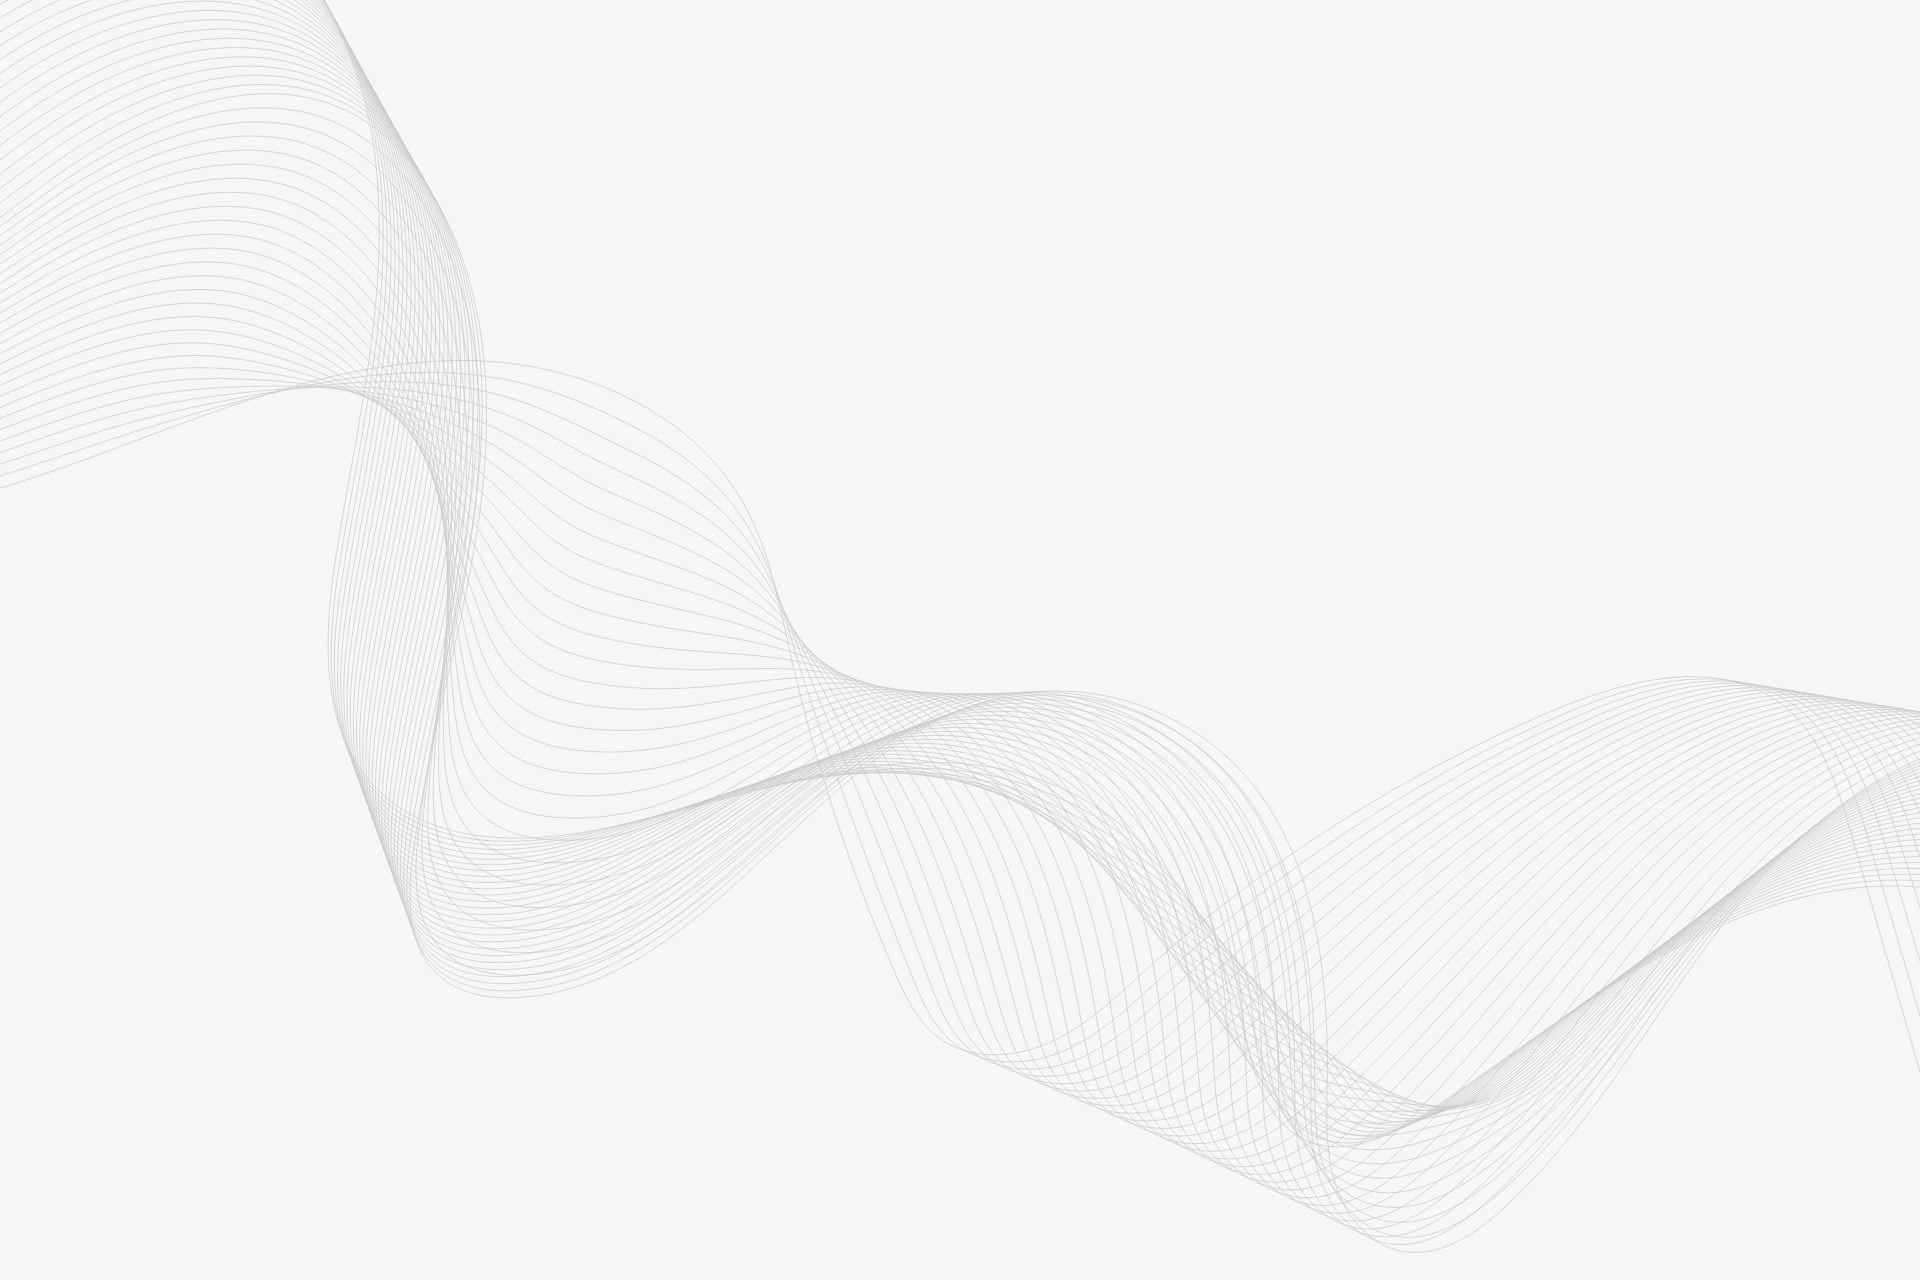
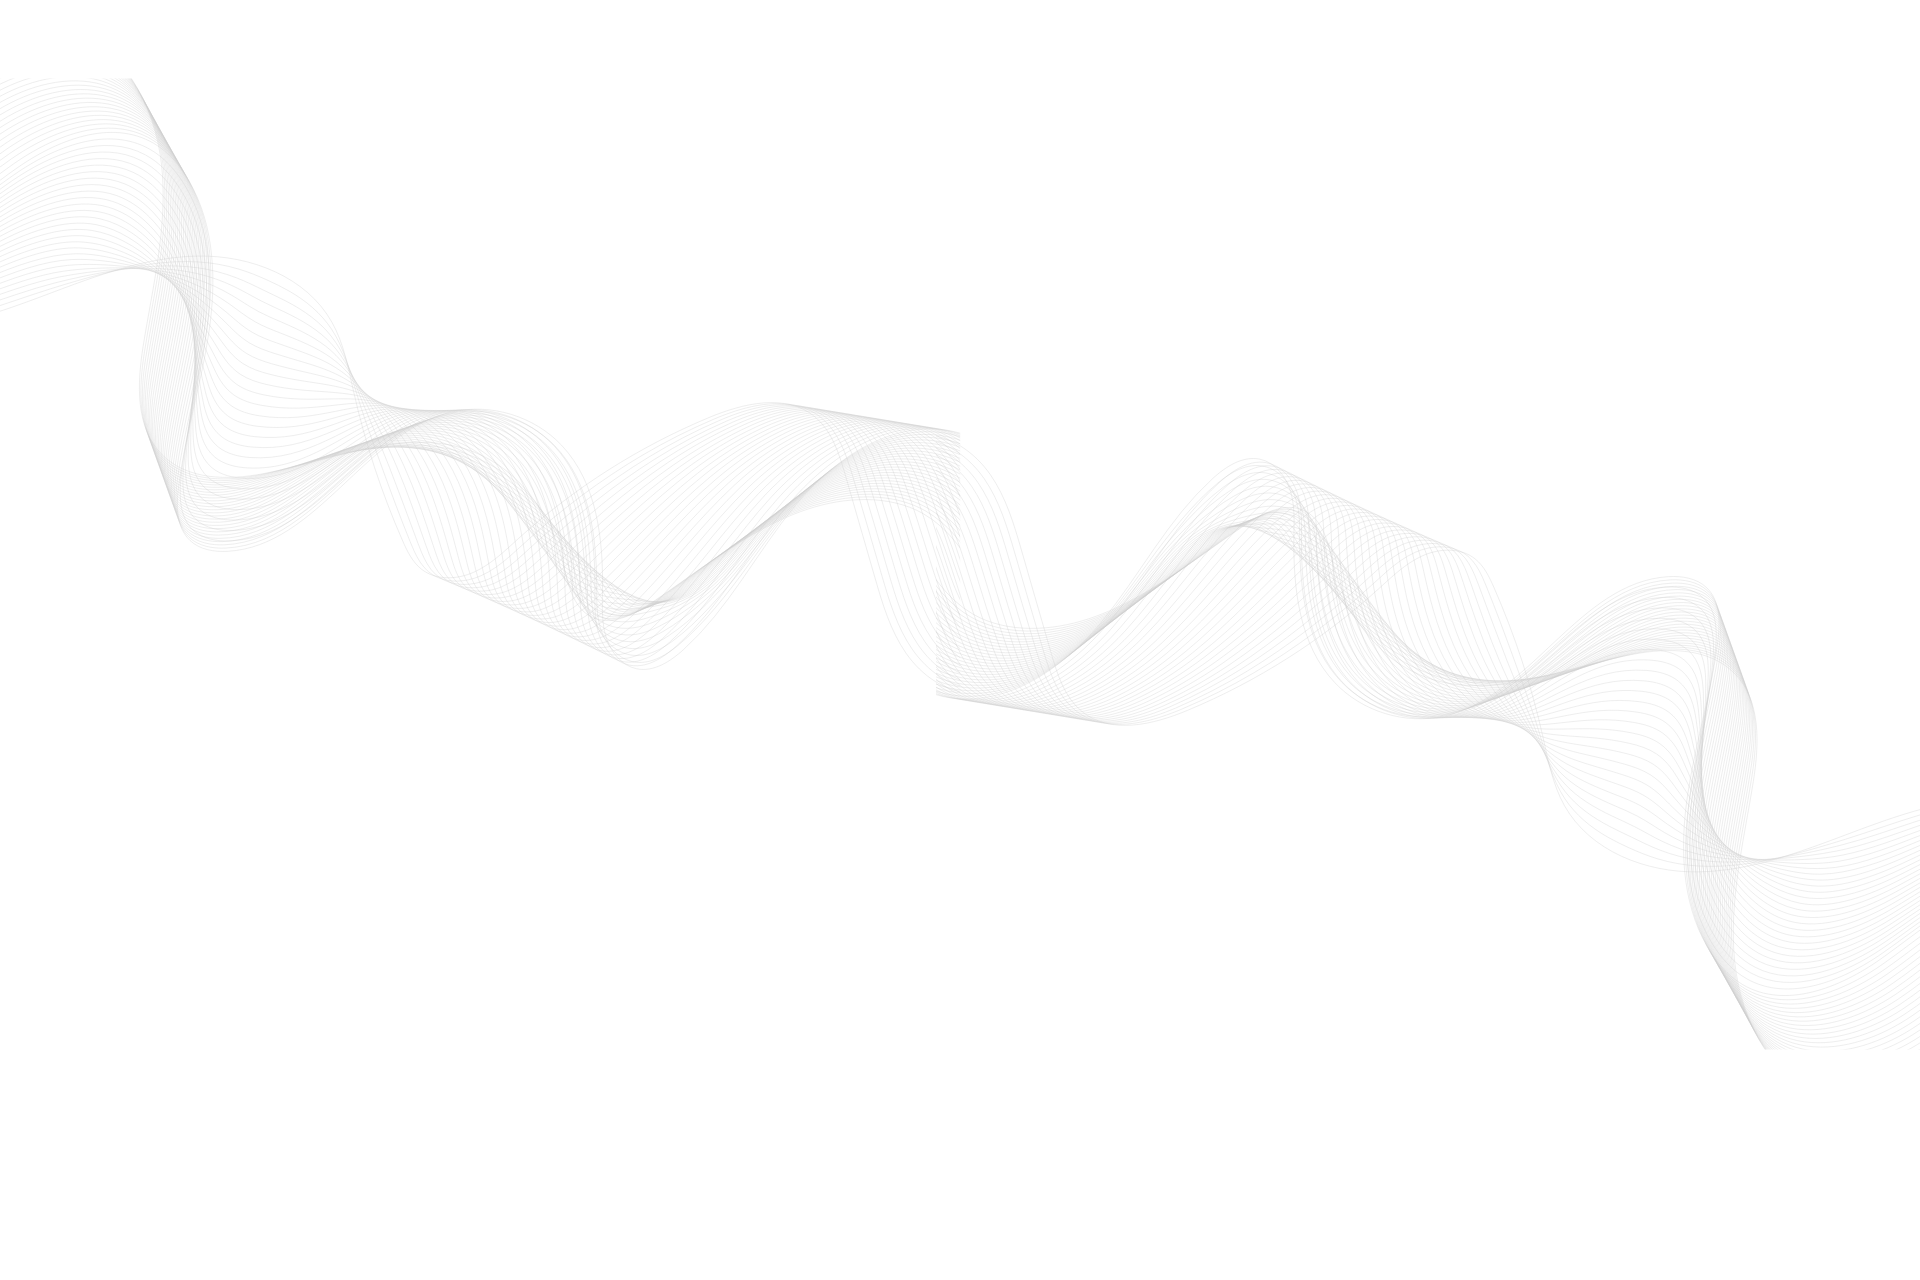
styled work page

Changed region(s): [[0.0938, 0.0, 1.0, 0.9688], [0.375, 0.4375, 0.4062, 0.4688]]

diff --git a/src/features/Work.js b/src/features/Work.js
@@ -4,53 +4,57 @@ const Work = () => {
   return (
     <>
       <h1 style={{textAlign: 'center', color: '#70a0af'}}>Work</h1>
-      {/**MAYBE USE BOOTSTRAP CAROUSEL HERE?!?! */}
-      {/* <main className="flex flex-wrap mx-auto"> */}
       <main style={{display: 'flex', flexWrap: 'wrap', flexDirection: 'row', justifyContent: 'center'}}>
-        <div style={{border: '1px solid lightgrey', margin: '5px', padding: '3px', width: '20rem'}}>
-          <h2 style={{textAlign: 'center'}}>Yummify</h2>
+        <div style={{border: '2px solid #9f8082', backgroundColor: 'white', borderRadius: '6px', margin: '5px', padding: '3px', width: '20rem', position :'relative', paddingBottom: '5vh'}}>
+          <h2 style={{textAlign: 'center', color: '#9f8082'}}>Yummify</h2>
           <div style={{width: '20rem', textAlign: 'center', display: 'flex', justifyContent: 'center'}}>
               <img src="yummify.png" style={{width: '18rem'}}/>
           </div>
-          <div style={{textAlign: 'center', margin: '3px,'}}>
-          <a href="https://www.youtube.com/watch?v=K3fjTKBAuxE">Watch demo</a>
+          <div style={{textAlign: 'center'}}>
+          <a href="https://www.youtube.com/watch?v=K3fjTKBAuxE" style={{textDecoration: 'none', color: '#003249'}}>Watch demo</a>
           </div>
-          <p>
+          <p style={{color: '#292f36', padding: '3px', textAlign: 'center'}}>
             A full stack application which works to reduce food waste by
             providing an avenue for restaurants to sell their unsold meals
             and/or items for discounted prices to consumers. Key technologies
             used in development include Node.js, React, JavaScript, Firebase,
             Redux, Bootstrap, Webpack, GoogleMapsAPI
           </p>
-          <a href="https://yummify-352b4.web.app/" target="_blank"><p>View Site</p></a>
-          <a href="https://github.com/yummify/yummify" target="_blank"><p>View on Github</p></a>
+          <div style={{position: 'absolute', bottom: '5px', height: '5vh', display: 'flex', flexDirection: 'row', justifyContent: 'space-evenly' }}>
+          <a href="https://yummify-352b4.web.app/" target="_blank" style={{textDecoration: 'none', color: '#9f8082', width: '7rem', backgroundColor: '#eddea4', textAlign: 'center', border: '1px solid #9f8082', borderRadius: '4px', margin: '0 1.5rem'}}><p>View Site</p></a>
+          <a href="https://github.com/yummify/yummify" target="_blank" style={{textDecoration: 'none', color: '#9f8082', width: '7rem', backgroundColor: '#eddea4', textAlign: 'center', border: '1px solid #9f8082', borderRadius: '4px', margin: '0 1.5rem'}}><p>View on Github</p></a>
+          </div>
         </div>
-        <div style={{border: '1px solid lightgrey', margin: '5px', padding: '3px', width: '20rem'}}>
-          <h2 style={{textAlign: 'center'}}>Pick me UP</h2>
+        <div style={{border: '2px solid #9f8082', backgroundColor: 'white', borderRadius: '6px', margin: '5px', padding: '3px', width: '20rem', position :'relative', paddingBottom: '5vh'}}>
+          <h2 style={{textAlign: 'center', color: '#9f8082'}}>Pick me UP</h2>
           <div style={{width: '20rem', textAlign: 'center', display: 'flex', justifyContent: 'center'}}>
               <img src="pickmeup.png" style={{width: '18rem'}}/>
           </div>
-          <p>
+          <p style={{color: '#292f36', padding: '3px', textAlign: 'center'}}>
             A frontend site that generates inspirational quotes for users,
             utilizing 34 different categories with up to 10 quotes within each
             category. Key technologies used in development include React,
             JavaScript, Node.js, HTML5, CSS3
           </p>
-          <a href="https://moniquehayes.github.io/stackathon2/" target="_blank"><p>View Site</p></a>
-          <a href="https://github.com/moniquehayes/stackathon2" target="_blank"><p>View on Github</p></a>
+          <div style={{position: 'absolute', bottom: '5px', height: '5vh', display: 'flex', flexDirection: 'row', justifyContent: 'space-evenly' }}>
+          <a href="https://moniquehayes.github.io/stackathon2/" target="_blank" style={{textDecoration: 'none', color: '#9f8082', width: '7rem', backgroundColor: '#eddea4', textAlign: 'center', border: '1px solid #9f8082', borderRadius: '4px', margin: '0 1.5rem'}}><p>View Site</p></a>
+          <a href="https://github.com/moniquehayes/stackathon2" target="_blank" style={{textDecoration: 'none', color: '#9f8082', width: '7rem', backgroundColor: '#eddea4', textAlign: 'center', border: '1px solid #9f8082', borderRadius: '4px', margin: '0 1.5rem'}}><p>View on Github</p></a>
+          </div>
         </div>
-        <div style={{border: '1px solid lightgrey', margin: '5px', padding: '3px', width: '20rem'}}>
-          <h2 style={{textAlign: 'center'}}>Wild Roots</h2>
+        <div style={{border: '2px solid #9f8082', backgroundColor: 'white', borderRadius: '6px', margin: '5px', padding: '3px', width: '20rem', position :'relative', paddingBottom: '5vh'}}>
+          <h2 style={{textAlign: 'center', color: '#9f8082'}}>Wild Roots</h2>
           <div style={{width: '20rem', textAlign: 'center', display: 'flex', justifyContent: 'center'}}>
               <img src="wildroots.png" style={{width: '18rem'}}/>
           </div>
-          <p>
+          <p style={{color: '#292f36', padding: '3px', textAlign: 'center'}}>
             A full stack ecommerce site for plants utilizing Node.js, React,
             Redux, JavaScript, React Bootstrap, Stripe, Express, Webpack, and
             Sequelize
           </p>
-          <a href="https://wild-roots.onrender.com/products" target="_blank"><p>View Site</p></a>
-          <a href="https://github.com/The-Shopperettes/grace-shopper" target="_blank"><p>View on Github</p></a>
+          <div style={{position: 'absolute', bottom: '5px', height: '5vh', display: 'flex', flexDirection: 'row', justifyContent: 'space-evenly' }}>
+          <a href="https://wild-roots.onrender.com/products" target="_blank" style={{textDecoration: 'none', color: '#9f8082', width: '7rem', backgroundColor: '#eddea4', textAlign: 'center', border: '1px solid #9f8082', borderRadius: '4px', margin: '0 1.5rem'}}><p>View Site</p></a>
+          <a href="https://github.com/The-Shopperettes/grace-shopper" target="_blank" style={{textDecoration: 'none', color: '#9f8082', width: '7rem', backgroundColor: '#eddea4', textAlign: 'center', border: '1px solid #9f8082', borderRadius: '4px', margin: '0 1.5rem'}}><p>View on Github</p></a>
+          </div>
         </div>
       </main>
     </>

diff --git a/src/features/About.js b/src/features/About.js
@@ -3,7 +3,7 @@ import React from "react";
 const About = () => {
   return (
     <>
-      <div style={{display: 'flex', justifyContent: 'space-between', margin: '10vh'}}>
+      <div style={{display: 'flex', justifyContent: 'space-between', alignItems: 'center', margin: '10vh', border: '2px solid #9f8082', padding:'10px', borderRadius: '8px'}}>
         <img src="headshot.jpeg" style={{ width: '23vw', height: '60vh'}} />
         <div style={{margin: '5vw'}}>
         <h1 style={{color: '#70a0af'}}>Monique Hayes</h1>
@@ -33,21 +33,6 @@ const About = () => {
           </p>
         </div>
       </div>
-      {/* <p>Please take a look at some of the projects I've done below!</p>
-        <div style={{display: 'flex', flexDirection: 'row', flexWrap: 'wrap', justifyContent: 'space-around'}}>
-            <div style={{border: '1px solid lightgrey', width: '30vw', textAlign: 'center'}}>
-                <h3>Yummify</h3>
-                <a href="https://yummify-352b4.web.app/"><img src="yummify.png" target="_blank" style={{width: '26vw', margin: '2vw'}}/></a>
-            </div>
-            <div style={{border: '1px solid lightgrey', width: '30vw', textAlign: 'center'}}>
-                <h3>Pick Me UP</h3>
-                <a href="https://moniquehayes.github.io/stackathon2/"><img src="pickmeup.png" target="_blank" style={{width: '26vw', margin: '2vw'}}/></a>
-            </div>
-            <div style={{border: '1px solid lightgrey', width: '30vw', textAlign: 'center'}}>
-                <h3>Wild Roots</h3>
-                <a href="https://wild-roots.onrender.com/products"><img src="wildroots.png" target="_blank" style={{width: '26vw', margin: '2vw'}}/></a>
-            </div>
-        </div> */}
     </>
   );
 };

diff --git a/src/App.js b/src/App.js
@@ -21,7 +21,7 @@ const App = () => {
             <Route path="/contact" element={<Contact />} />
           </Routes>
         </main>
-        <footer>
+        {/* <footer>
           <div
             style={{
               backgroundColor: "#9f8082",
@@ -45,7 +45,7 @@ const App = () => {
               </a>
             </p>
           </div>
-        </footer>
+        </footer> */}
       </div>
     </div>
   );

diff --git a/public/style.css b/public/style.css
@@ -5,10 +5,11 @@
 
 * {
     margin-left: 0;
+    color: #292f36
 }
 
 .App {
-    background-image: url('bkgrnd1.png'); 
+    background-image: url('bkgrnd.png'); 
 }
 
 #page {
